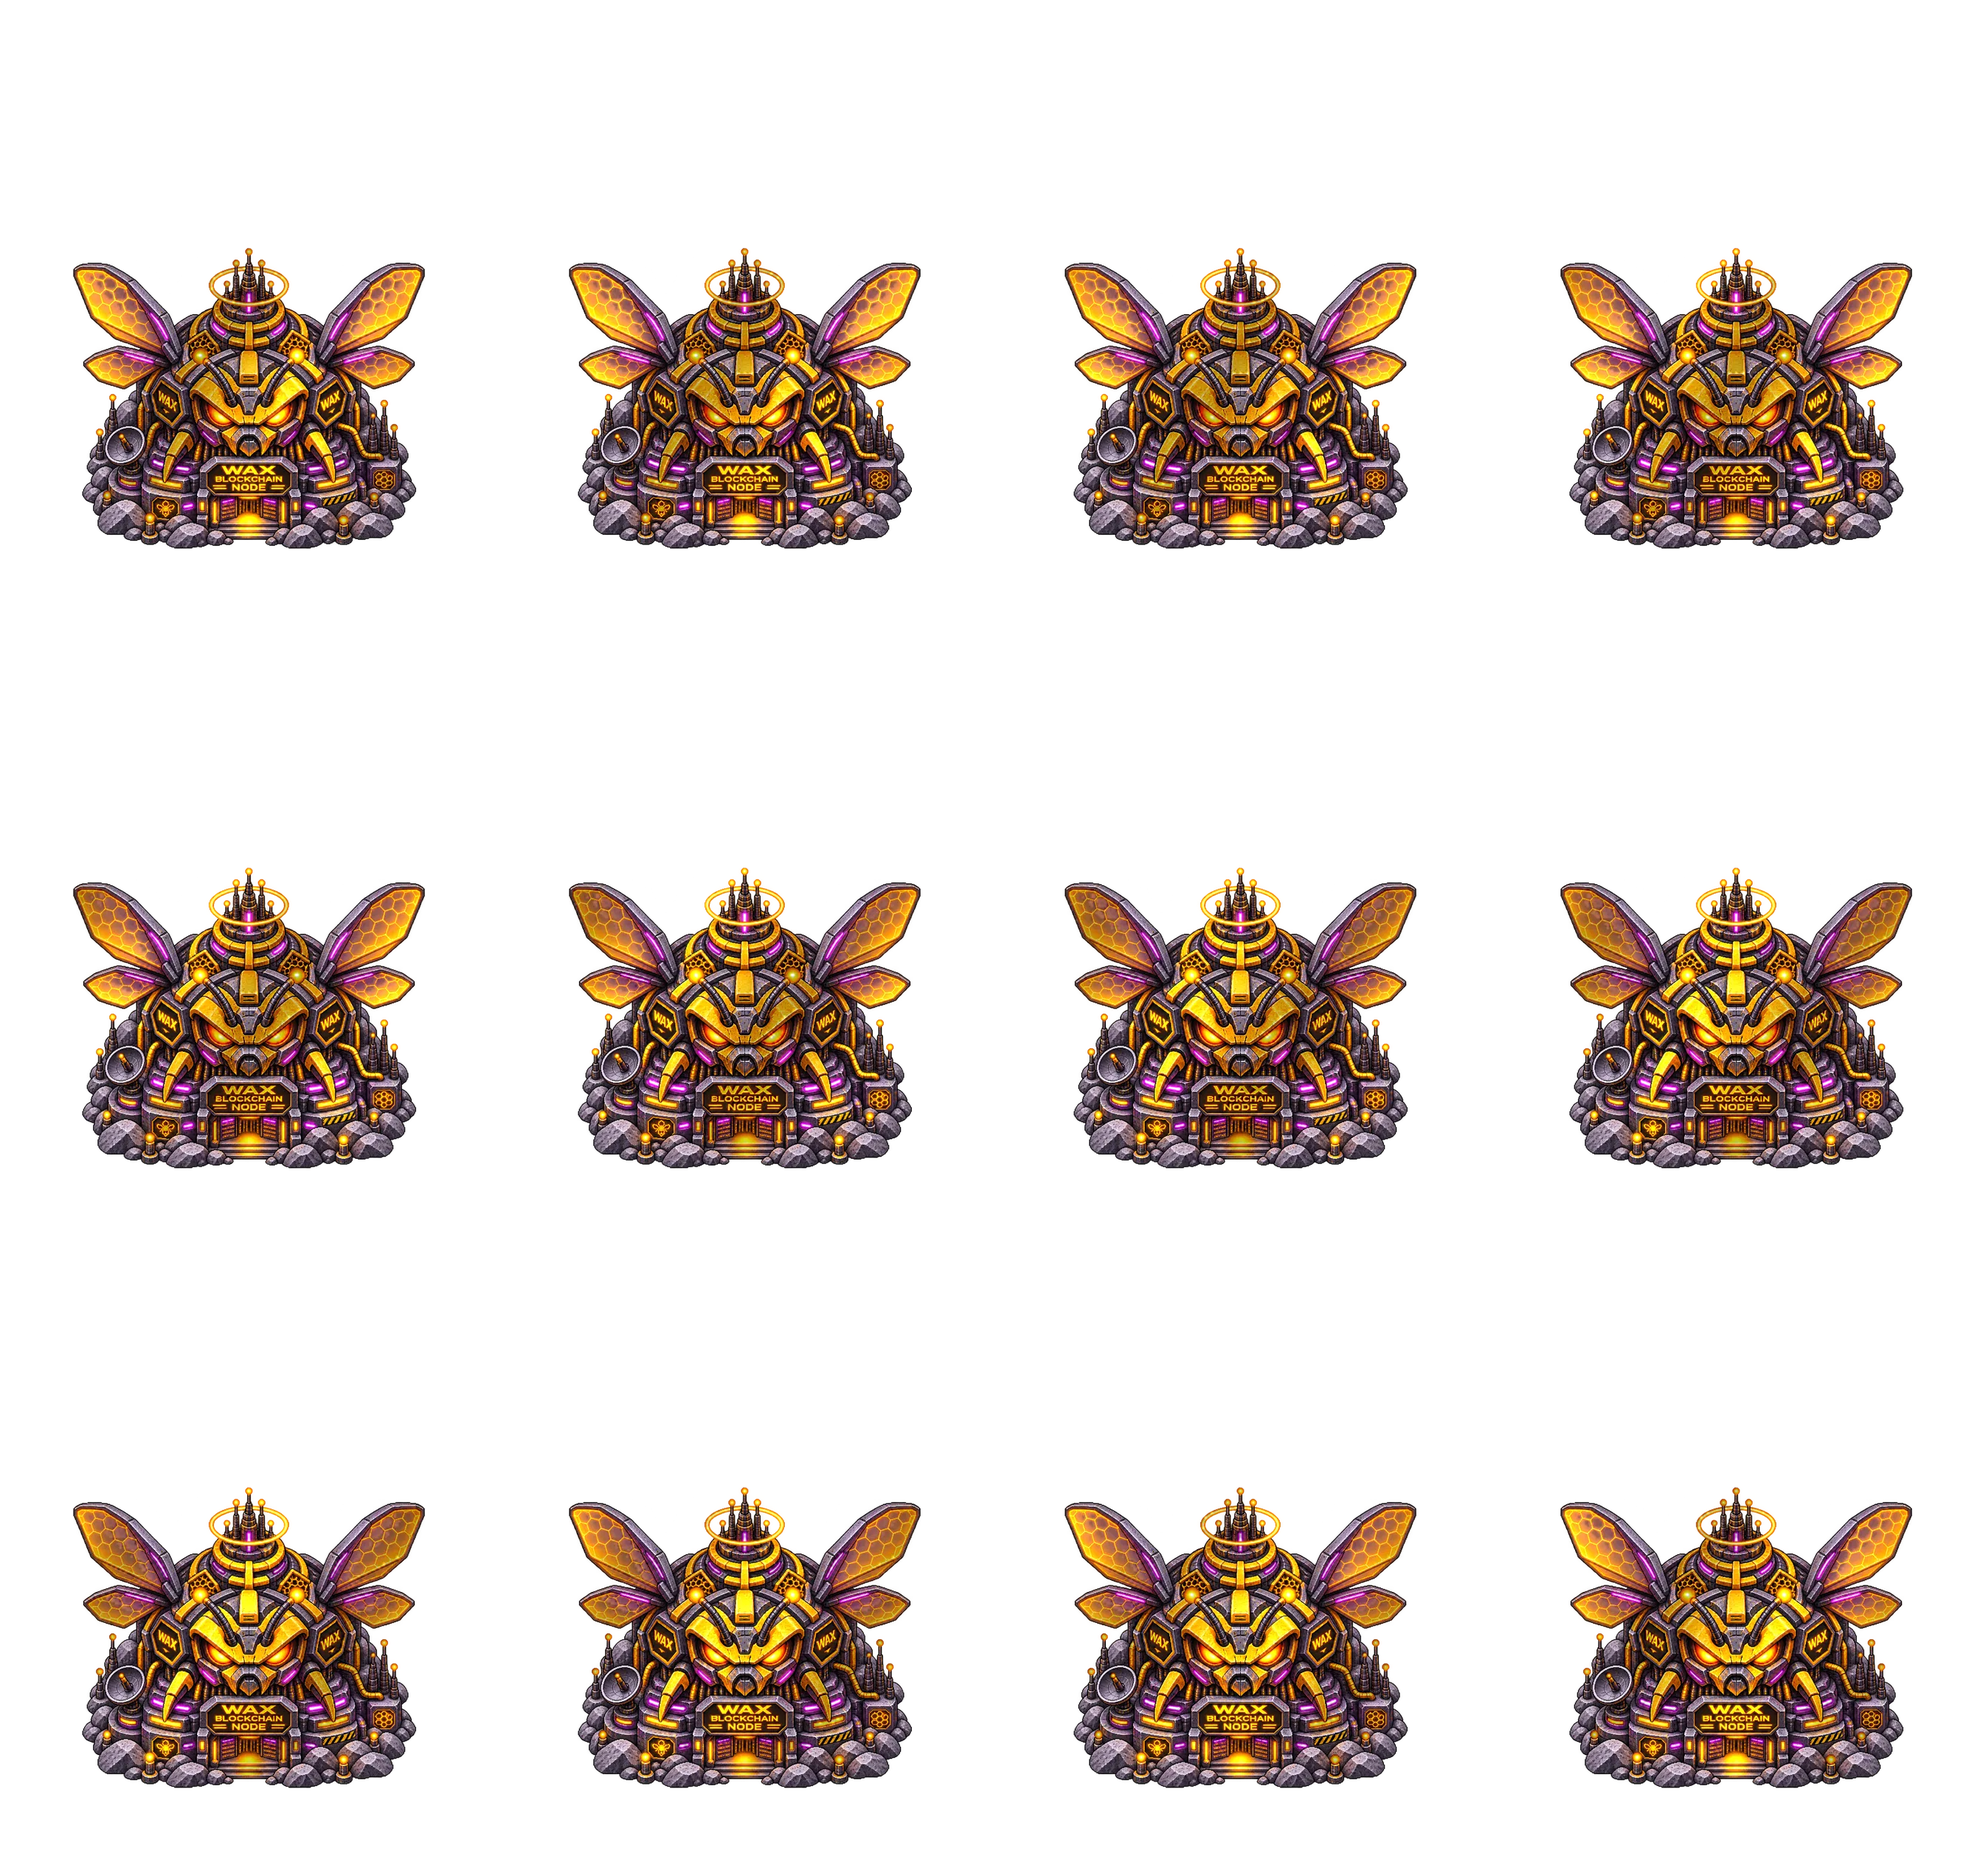
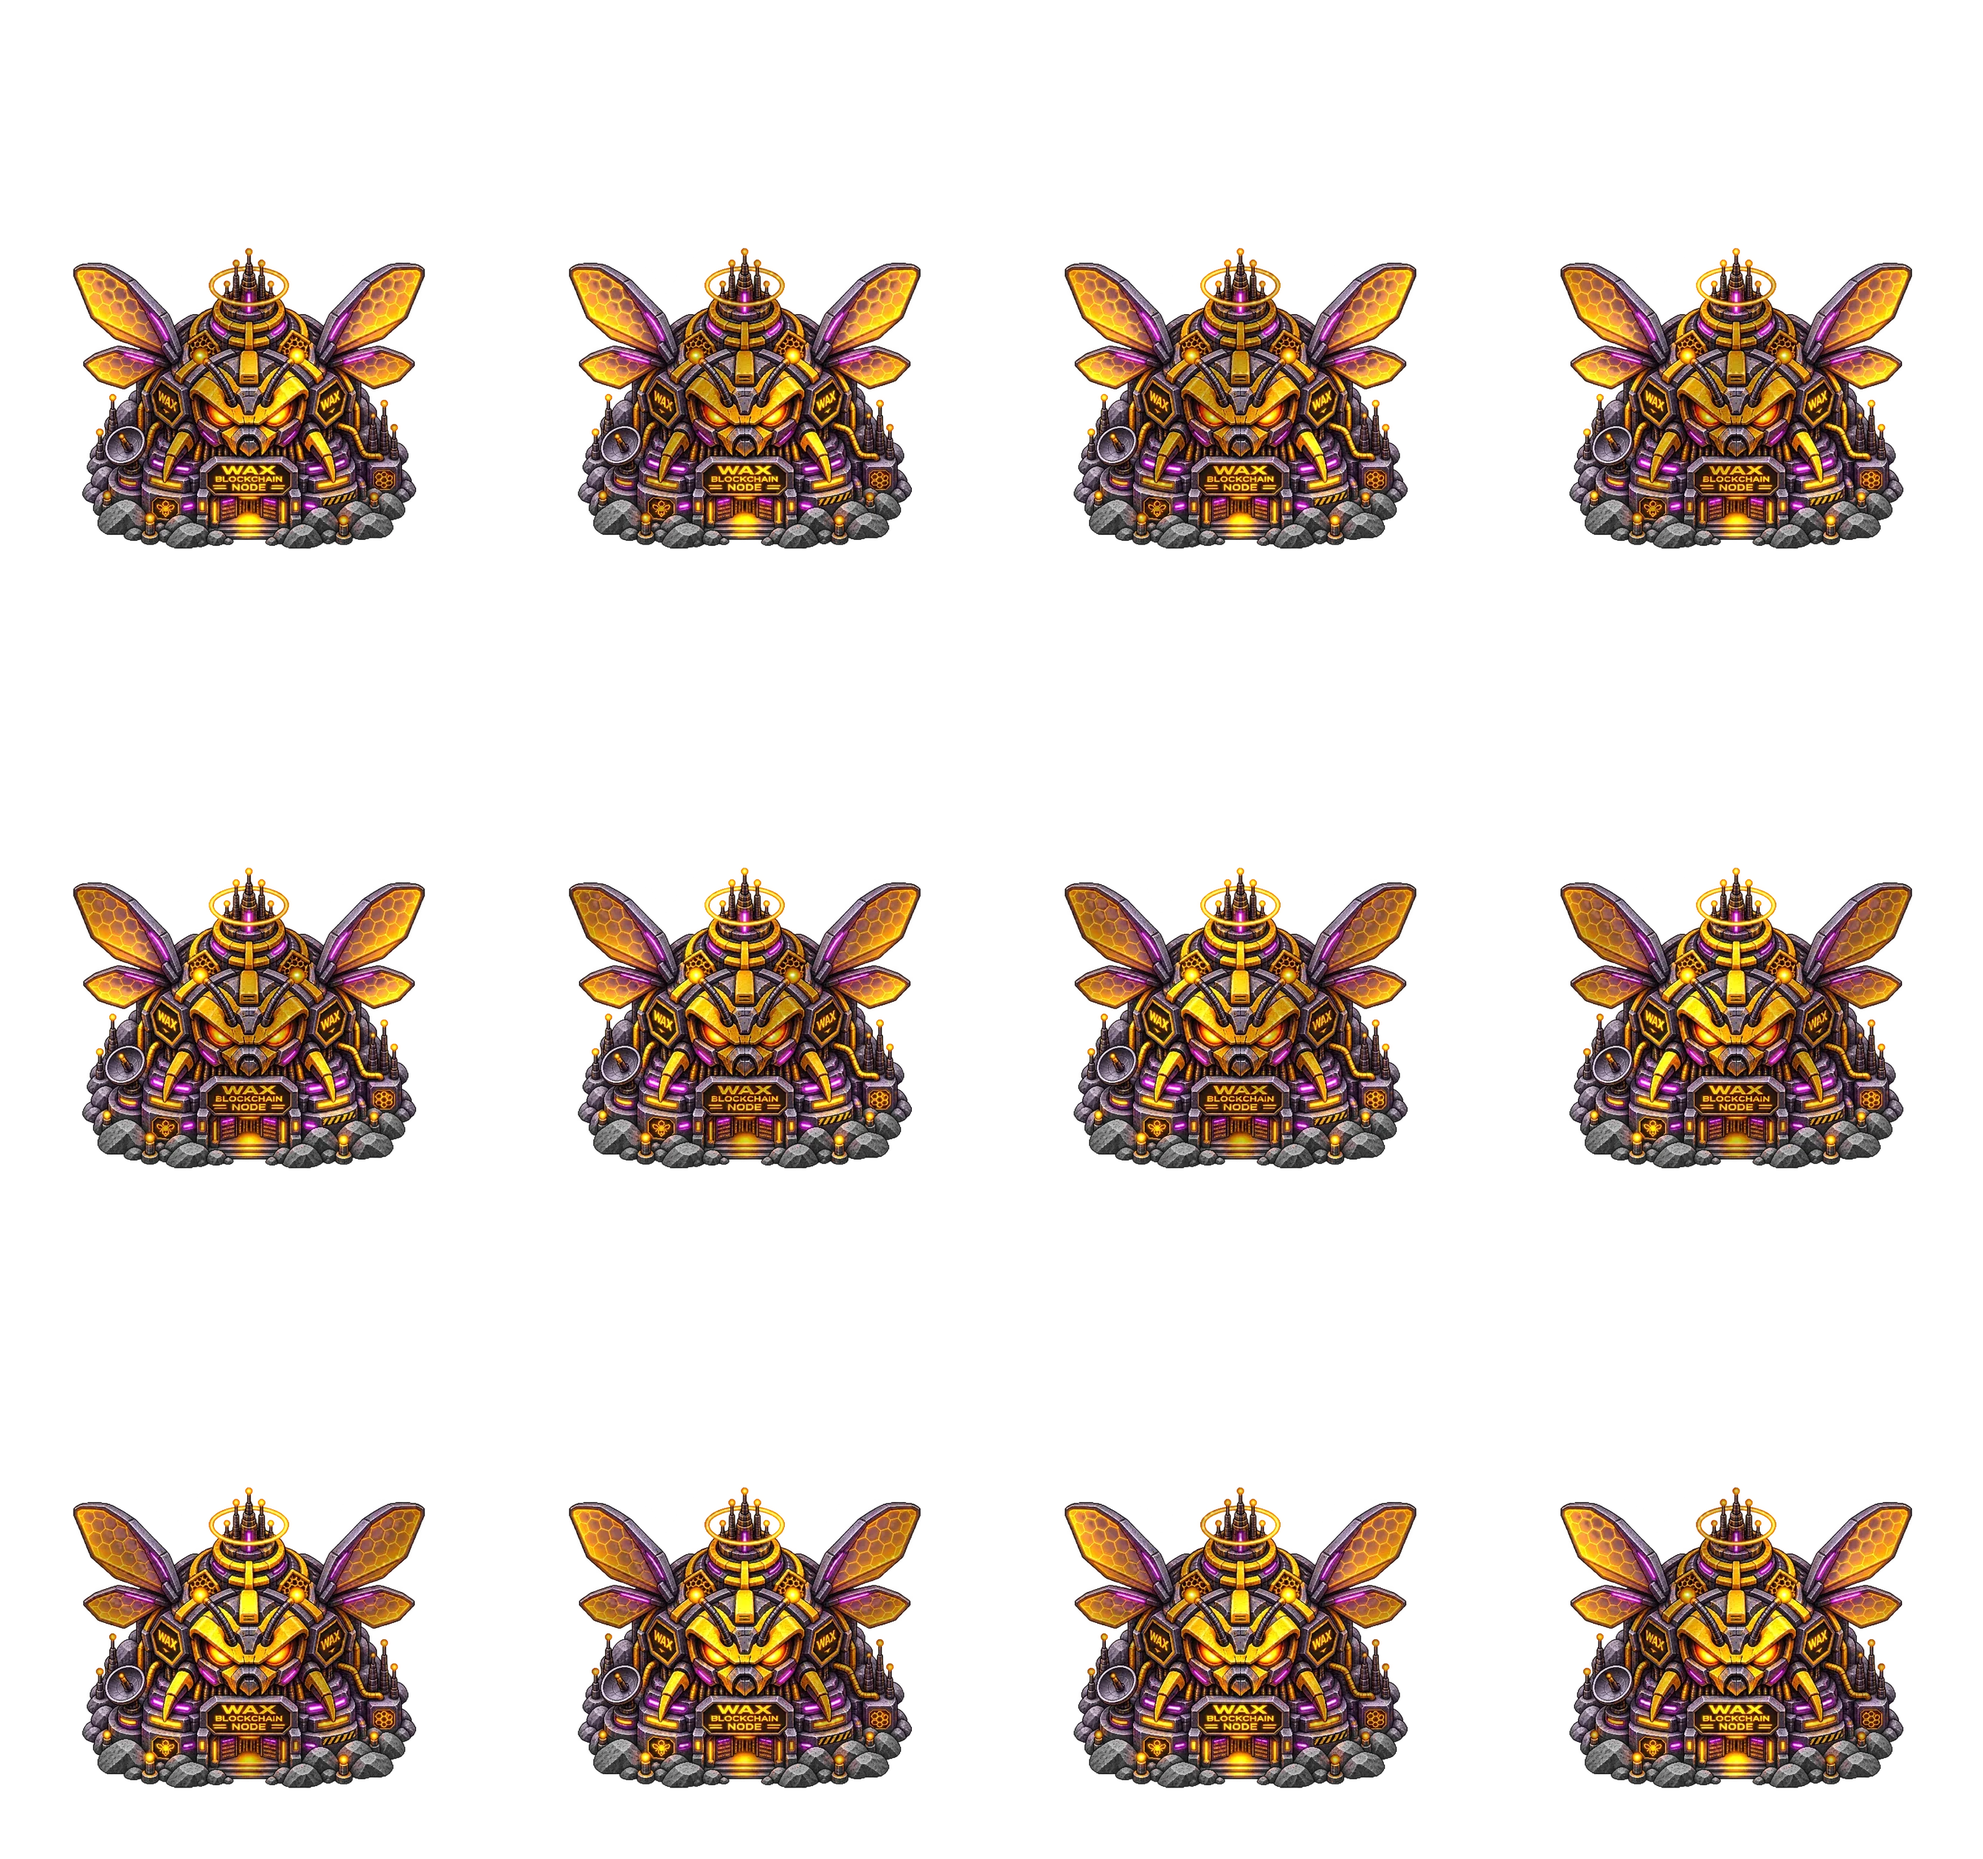
Match jagged mining foundations to the Moon rock palette

diff --git a/games/block-topia/waterfront/harbor-art.js b/games/block-topia/waterfront/harbor-art.js
@@ -1,11 +1,12 @@
 // GK-approved baseline (games/block-topia/AGENTS.md). Keep these miner lots, rear tower scale, and overhead close-zoom artwork.
 // Resolve atlas URLs from this script so it can render on the comparison route too.
+// Moon foundation stone palette (see games/block-topia/AGENTS.md): #585858, shadows #242424, highlights #8E8E8E.
 const harborMiningSites = [
   { id: "bitcoin-cash-tower", col: 42, row: 11, heightScale: 1.7, atlas: { file: "bitcoin-cash-tower-overhead.webp?v=2-detail" },
     profile: { name: "Bitcoin Cash Mining Tower", role: "Mining rigs online" } },
-  { id: "zcash-fortress", col: 16, row: 21, atlas: { file: "zcash-fortress-overhead.webp?v=2-detail" },
+  { id: "zcash-fortress", col: 16, row: 21, atlas: { file: "zcash-fortress-overhead.webp?v=3-regolith" },
     profile: { name: "Zcash Mining Fortress", role: "Cooling fans and reactors online" } },
-  { id: "wax-bee-node", col: 21, row: 22, atlas: { file: "wax-bee-overhead.webp?v=2-detail" },
+  { id: "wax-bee-node", col: 21, row: 22, atlas: { file: "wax-bee-overhead.webp?v=3-regolith" },
     profile: { name: "WAX Bee Node", role: "Honeycomb circuits online" } },
 ];
 const waterfrontAtlasBase = new URL("assets/atlases/", document.currentScript?.src || document.baseURI);

diff --git a/games/block-topia/hodl-wars-lores/game.js b/games/block-topia/hodl-wars-lores/game.js
@@ -14,9 +14,10 @@ sprite.src = '../waterfront/assets/atlases/factions.png';
 const detailedSprite = new Image();
 detailedSprite.src = '../waterfront/assets/atlases/factions-detail.webp';
 const detailCell = 192;
+// Moon foundation stone palette (see games/block-topia/AGENTS.md): #585858, shadows #242424, highlights #8E8E8E.
 const miningBuildings = miningSites.map(site => {
   const image = new Image();
-  image.src = './assets/' + site.file + (site.file === 'wax-bee.webp' ? '?view=moon-grid&v=2-detail' : '?v=2-detail');
+  image.src = './assets/' + site.file + (site.file === 'wax-bee.webp' ? '?view=moon-grid&v=3-regolith' : '?v=3-regolith');
   return { scale: .625, ...site, image };
 });
 const fortressFrame = { width: 224, height: 280, columns: 4, count: 12, fps: 12 };

diff --git a/games/block-topia/index.html b/games/block-topia/index.html
@@ -421,7 +421,7 @@
           throw new Error("BlockTopiaMap API unavailable after import");
         }
         // Mining landmarks sit on existing blocked tiles and are independent of match state.
-        const { drawZcashFortress, loadZcashFortress, towerScale } = await import("./zcash-fortress.mjs?v=4");
+        const { drawZcashFortress, loadZcashFortress, towerScale } = await import("./zcash-fortress.mjs?v=5");
         const fortressImage = loadZcashFortress();
         const waxImage = loadZcashFortress("./assets/miners/wax-bee-iso.webp");
         const towerImage = loadZcashFortress("./assets/miners/bitcoin-cash-tower-iso.webp");

diff --git a/games/block-topia/waterfront/entry.js b/games/block-topia/waterfront/entry.js
@@ -113,7 +113,7 @@ function bootMap(district) {
         };
       };
       window.waterfrontCharacterNames = Object.values(LEADERS).map(leader => leader.character);
-      if (!window.drawWaterfront) await script('harbor-art.js?v=77-compact-island');
+      if (!window.drawWaterfront) await script('harbor-art.js?v=78-regolith');
       if (!window.waterfrontCrewBriefing) await script('crew-briefing.js?v=1');
       if (!window.waterfrontMapLoaded) await script('map.js?v=22-compact-island');
       if (!window.waterfrontMapLoaded) throw new Error('map_load_failed');

diff --git a/games/block-topia/test-builds/compare/waterfront/index.html b/games/block-topia/test-builds/compare/waterfront/index.html
@@ -7,7 +7,7 @@
   <meta name="robots" content="noindex, follow">
   <title>Lumina’s Waterfront · Block Topia Map Comparison</title>
   <link rel="stylesheet" href="/games/block-topia/test-builds/compare/comparison.css">
-  <script type="module" src="/games/block-topia/test-builds/compare/comparison.mjs?v=8"></script>
+  <script type="module" src="/games/block-topia/test-builds/compare/comparison.mjs?v=12"></script>
 </head>
 <body data-map="waterfront">
 <main>

diff --git a/games/block-topia/test-builds/compare/node-city/index.html b/games/block-topia/test-builds/compare/node-city/index.html
@@ -8,7 +8,7 @@
   <meta name="robots" content="noindex, follow">
   <title>Original Node City · Block Topia Map Comparison</title>
   <link rel="stylesheet" href="/games/block-topia/test-builds/compare/comparison.css">
-  <script type="module" src="/games/block-topia/test-builds/compare/comparison.mjs?v=11"></script>
+  <script type="module" src="/games/block-topia/test-builds/compare/comparison.mjs?v=12"></script>
 </head>
 <body data-map="node-city">
 <main>

diff --git a/games/block-topia/test-builds/compare/survival/index.html b/games/block-topia/test-builds/compare/survival/index.html
@@ -8,7 +8,7 @@
   <meta name="robots" content="noindex, follow">
   <title>Survival Grid · Block Topia Map Comparison</title>
   <link rel="stylesheet" href="/games/block-topia/test-builds/compare/comparison.css">
-  <script type="module" src="/games/block-topia/test-builds/compare/comparison.mjs?v=6"></script>
+  <script type="module" src="/games/block-topia/test-builds/compare/comparison.mjs?v=12"></script>
 </head>
 <body data-map="survival">
 <main>

diff --git a/games/block-topia/test-builds/compare/moon/index.html b/games/block-topia/test-builds/compare/moon/index.html
@@ -8,7 +8,7 @@
   <meta name="robots" content="noindex, follow">
   <title>HODL Wars Lores · Block Topia Map Comparison</title>
   <link rel="stylesheet" href="/games/block-topia/test-builds/compare/comparison.css">
-  <script type="module" src="/games/block-topia/test-builds/compare/comparison.mjs?v=7"></script>
+  <script type="module" src="/games/block-topia/test-builds/compare/comparison.mjs?v=12"></script>
 </head>
 <body data-map="moon">
 <main>

diff --git a/games/block-topia/waterfront/index.html b/games/block-topia/waterfront/index.html
@@ -124,6 +124,6 @@ fieldset button{margin:.2rem .15rem .2rem 0}
 </main>
 <script data-cfasync="false" src="/js/api-config.js"></script>
 <script data-cfasync="false" src="/js/identity-gate.js"></script>
-<script data-cfasync="false" type="module" src="entry.js?v=52-compact-island"></script>
+<script data-cfasync="false" type="module" src="entry.js?v=53-regolith"></script>
 </body>
 </html>

diff --git a/games/block-topia/hodl-wars-lores/index.html b/games/block-topia/hodl-wars-lores/index.html
@@ -9,7 +9,7 @@
   <link rel="canonical" href="https://cryptomoonboys.com/games/block-topia/hodl-wars-lores/">
   <link rel="icon" href="/favicon.png">
   <link rel="stylesheet" href="./game.css">
-  <script type="module" src="./game.js?v=9"></script>
+  <script type="module" src="./game.js?v=10"></script>
 </head>
 <body>
   <main id="game">

diff --git a/games/block-topia/AGENTS.md b/games/block-topia/AGENTS.md
@@ -15,4 +15,5 @@ GK approved the placement, camera angles, in-world scale, and close-zoom art for
 - Keep the original projections, camera framing and zoom behavior for each map, along with its ground anchors and depth order.
 - Keep the tall Bitcoin Cash silhouette and its 1.7× draw scale relative to the standard miners. Its rear placement gives the skyline room while keeping the main routes clear.
 - Use the appropriate isometric, overhead, or tilted Moon atlas. On both Moon views, use the corrected WAX Bee sprite with its entry and base aligned to the sloping Moon grid. The approved miner sheets have twelve transparent 672 × 840 frames in four columns by three rows. Keep the 12 fps loop, stationary foundation, reduced-motion first frame, and high-quality sampling for the miners at close zoom.
+- For natural Moon rocks around building bases, use neutral regolith grey `#585858`, sampled from the Node City terrain, with charcoal shadows around `#242424` and lit facets around `#8E8E8E`. Retain the stone texture and upper-left light direction. Keep the exposed edges irregular, with individual jagged rocks and gaps around the foundation. Keep pink and purple out of the stone palette, and keep intentional lights and metalwork in their own colours. Use this palette for future foundation sprites at every camera angle.
 - When changing relevant assets or rendering, check the affected views at overview and close zoom. Verify readable signage, a stable rock base, the tower’s height and silhouette, and landmark inspection where supported. If an edit affects the shared renderer or an atlas used by multiple routes, check each affected view.
